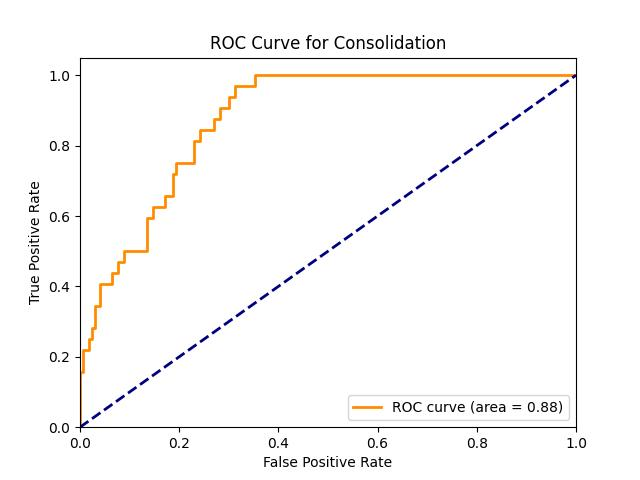
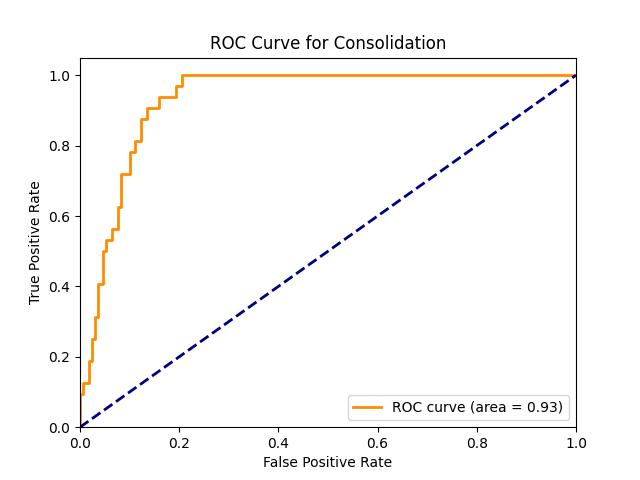
identified the appropriate threshold for the model

diff --git a/CNN_Based_Models/optimAUROC.py b/CNN_Based_Models/optimAUROC.py
@@ -31,6 +31,8 @@ print(device)
 
 def train(lr=1e-4, epoch_decay=2e-3, weight_decay=1e-5, margin=1.0, total_epochs=2, include_class_weights=True):
     
+    threshold = [0.001, 0.2, 0.005, 0.027, 0.07]
+    
     #model's properties
     model = DenseNet()
     model = model.to(device)
@@ -39,7 +41,7 @@ def train(lr=1e-4, epoch_decay=2e-3, weight_decay=1e-5, margin=1.0, total_epochs
     trainloader, testloader, class_weights, classes = get_dataloaders_and_properties()
 
 
-    def calculate_metrics(test_true, test_pred, output_dir, threshold=0.5):
+    def calculate_metrics(test_true, test_pred, output_dir):
 
         def calc_tpr(tp, fn): return tp/(tp+fn)
         def calc_fpr(fp, tn): return fp/(fp+tn)
@@ -63,8 +65,9 @@ def train(lr=1e-4, epoch_decay=2e-3, weight_decay=1e-5, margin=1.0, total_epochs
 
         for i in range(len(classes)):
             fpr_list, tpr_list, _ = roc_curve(test_true[:, i], test_pred[:, i])
-            cm = confusion_matrix(test_true[:, i], (test_pred[:, i] > threshold).astype(int))
-            tn, fp, fn, tp = cm.ravel()
+            preds = (test_pred[:, i]>threshold[i])*1.
+            cm = confusion_matrix(test_true[:, i], preds).astype(int)
+            tp, fp, fn, tn = cm.ravel()
             tpr = calc_tpr(tp, fn)
             fpr = calc_fpr(fp, tn)
             fnr = calc_fnr(fn, tp)
@@ -79,7 +82,8 @@ def train(lr=1e-4, epoch_decay=2e-3, weight_decay=1e-5, margin=1.0, total_epochs
 
     def write_metrics_in_file(epoch, idx, CELoss, classes, val_auc, metrics, output_dir):
         with open(f"{output_dir}training_metrics.txt", "a") as file:
-            file.write(f"Epoch: {epoch}, Iteration:{idx} Loss:{CELoss}\n\n")
+            # file.write(f"Epoch: {epoch}, Iteration:{idx} Loss:{CELoss}\n\n")
+            file.write(f"Testing across threshold: {threshold}\n\n")
             file.write("| Class | TP | FP | FN | TN | TPR | FPR | FNR | TNR | Precision | Recall | F1 | AUROC |\n")
             file.write("|-------|-------|----|----|----|----|-----|-----|-----|-----|-----------|--------|----|\n")
             for i in range(len(classes)):
@@ -100,7 +104,8 @@ def train(lr=1e-4, epoch_decay=2e-3, weight_decay=1e-5, margin=1.0, total_epochs
                 test_data, test_labels = data
                 test_data = test_data.to(device)
                 y_pred, _, _ = model(test_data)
-                test_pred.append(torch.nn.functional.sigmoid(y_pred).cpu().detach().numpy())
+                pred_labels = torch.nn.functional.sigmoid(y_pred).cpu().detach().numpy()
+                test_pred.append(pred_labels)
                 test_true.append(test_labels.numpy())
                 torch.cuda.empty_cache()
 
@@ -110,7 +115,7 @@ def train(lr=1e-4, epoch_decay=2e-3, weight_decay=1e-5, margin=1.0, total_epochs
             val_auc = roc_auc_score(test_true, test_pred, average="weighted")
 
             if best_val_auc < val_auc:
-                metrics = calculate_metrics(test_true, test_pred, output_dir, 0.5)
+                metrics = calculate_metrics(test_true, test_pred, output_dir)
                 write_metrics_in_file(epoch, idx, loss_fn, classes, val_auc, metrics, output_dir)
 
         model.train()
@@ -123,22 +128,23 @@ def train(lr=1e-4, epoch_decay=2e-3, weight_decay=1e-5, margin=1.0, total_epochs
         best_val_auc = 0
         for idx, (train_data, train_labels) in tqdm(enumerate(trainloader), total=len(trainloader)):
 
-            train_data, train_labels  = train_data.to(device), train_labels.to(device)
-            optimizer.zero_grad()
-            y_pred, _, _ = model(train_data)
-            loss = loss_fn(y_pred, train_labels)
-            optimizer.zero_grad()
-            loss.backward()
-            optimizer.step()
-            torch.cuda.empty_cache()
+            # train_data, train_labels  = train_data.to(device), train_labels.to(device)
+            # optimizer.zero_grad()
+            # y_pred, _, _ = model(train_data)
+            # loss = loss_fn(y_pred, train_labels)
+            # optimizer.zero_grad()
+            # loss.backward()
+            # optimizer.step()
+            # torch.cuda.empty_cache()
             
             if idx % 200 == 0 or idx==(len(trainloader)-1):
                 val_auc = eval_epoch(epoch, idx, loss_fn, output_dir, best_val_auc)
+                break
                 if best_val_auc < val_auc:
                     save_model(epoch, output_dir)
                     best_val_auc = val_auc
                     print ('Epoch=%s, BatchID=%s, Val_AUC=%.4f, Best_Val_AUC=%.4f'%(epoch, idx, val_auc, best_val_auc ))
-                
+            break
 
     print("First Phase Training...")
     if include_class_weights:
@@ -148,14 +154,14 @@ def train(lr=1e-4, epoch_decay=2e-3, weight_decay=1e-5, margin=1.0, total_epochs
     optimizer = Adam(model.parameters(), lr=lr, weight_decay=weight_decay)
     output_dir = f"{base_dir}output_dir/CE/"
 
-    for epoch in range(5):
-        train_epoch(epoch, loss_fn, output_dir)
+    # for epoch in range(5):
+    #     train_epoch(epoch, loss_fn, output_dir)
 
     print("Training With Cross Entropy Loss Complete")
 
 
     #load the latest parameters
-    PATH = f'{base_dir}output_dir/CE/model_1.pth' 
+    PATH = f'{base_dir}output_dir/CE/model_4.pth' 
     state_dict = torch.load(PATH)
     model.load_state_dict(state_dict)
 
@@ -167,6 +173,7 @@ def train(lr=1e-4, epoch_decay=2e-3, weight_decay=1e-5, margin=1.0, total_epochs
 
     for epoch in range(5):
         train_epoch(epoch, loss_fn, output_dir)
+        break
 
     print("Training With mAUCM Loss Complete")
 
@@ -199,18 +206,22 @@ def infer_a_sample(image):
     model = model.to(device)
     _input = preprocess_image(image)
     _input = _input.to(device)
+    logits, _, _ = model(_input)
+    logits = torch.nn.functional.sigmoid(logits)
+    thresholds = [0.1, 0.1, 0.1, 0.1, 0.1]
+    indices_above_threshold = (logits > torch.tensor(thresholds, device=logits.device)).nonzero(as_tuple=True)[1].tolist()
 
     class_labels = get_dataloaders_and_properties()[3]
-    result_images = []
+    possible_diagnoses = [class_labels[i] for i in indices_above_threshold]
+    result_cams = []
     inference_dir = "/home/wiseyak/saumya/Chest_XRay_Model/CNN_Based_Models/output_dir/inferences/"
     for target_class, class_name in enumerate(class_labels):
         heatmap, _, logits = gradcam_pcam(model, _input, target_class)
         result_image = overlay_heatmap(image, heatmap, class_name)
         result_image.save(f"{inference_dir}{class_name}.png")
-        result_images.append(result_image)
+        result_cams.append(result_image)
         break
-    
-    return result_images[0], logits
+    return result_cams[0], possible_diagnoses
 
 
 # from PIL import Image
@@ -220,4 +231,4 @@ def infer_a_sample(image):
 
 # infer_a_sample()
 # if name == "__main__":
-# train()
+train()

diff --git a/CNN_Based_Models/demo.py b/CNN_Based_Models/demo.py
@@ -1,6 +1,4 @@
-
 import torch.nn.functional as F
-
 import numpy as np
 from PIL import Image
 import torch
@@ -8,20 +6,29 @@ from flask import Flask, request, jsonify
 from optimAUROC import infer_a_sample
 import cv2
 
+app = Flask(__name__)
 
-# Define your inference function
 def infer_image(image_path):
-
     image = Image.open(image_path)
+    class_activation_map, possible_diagnoses = infer_a_sample(image)
+    return class_activation_map, possible_diagnoses
 
-    result_images = infer_a_sample(image)
+
+@app.route('/infer', methods=['POST'])
+def infer():
+    if 'image' not in request.files:
+        return jsonify({'error': 'No image provided'}), 400
     
-    result_images = [Image.fromarray(img) for img in result_images]
-
-    # Convert PIL images to numpy arrays for Gradio output
-    result_images = [np.array(img) for img in result_images]
+    image_file = request.files['image']
+    if image_file.filename == '':
+        return jsonify({'error': 'No selected file'}), 400
     
-    return result_images
+    try:
+        class_activation_map, possible_diagnoses = infer_image(image_file)
+        # You can process the results as needed here
+        return jsonify({'class_activation_map': class_activation_map, 'possible_diagnoses': possible_diagnoses})
+    except Exception as e:
+        return jsonify({'error': str(e)}), 500
 
-# infer_image("/home/wiseyak/saumya/Chest_XRay_Model/Imgs/view1_frontal.jpg")
-infer_image("/home/optimus/Downloads/Datasets/CheXpert-v1.0-small/train/patient00007/study2/view1_frontal.jpg")
+if __name__ == '__main__':
+    app.run(debug=True)
